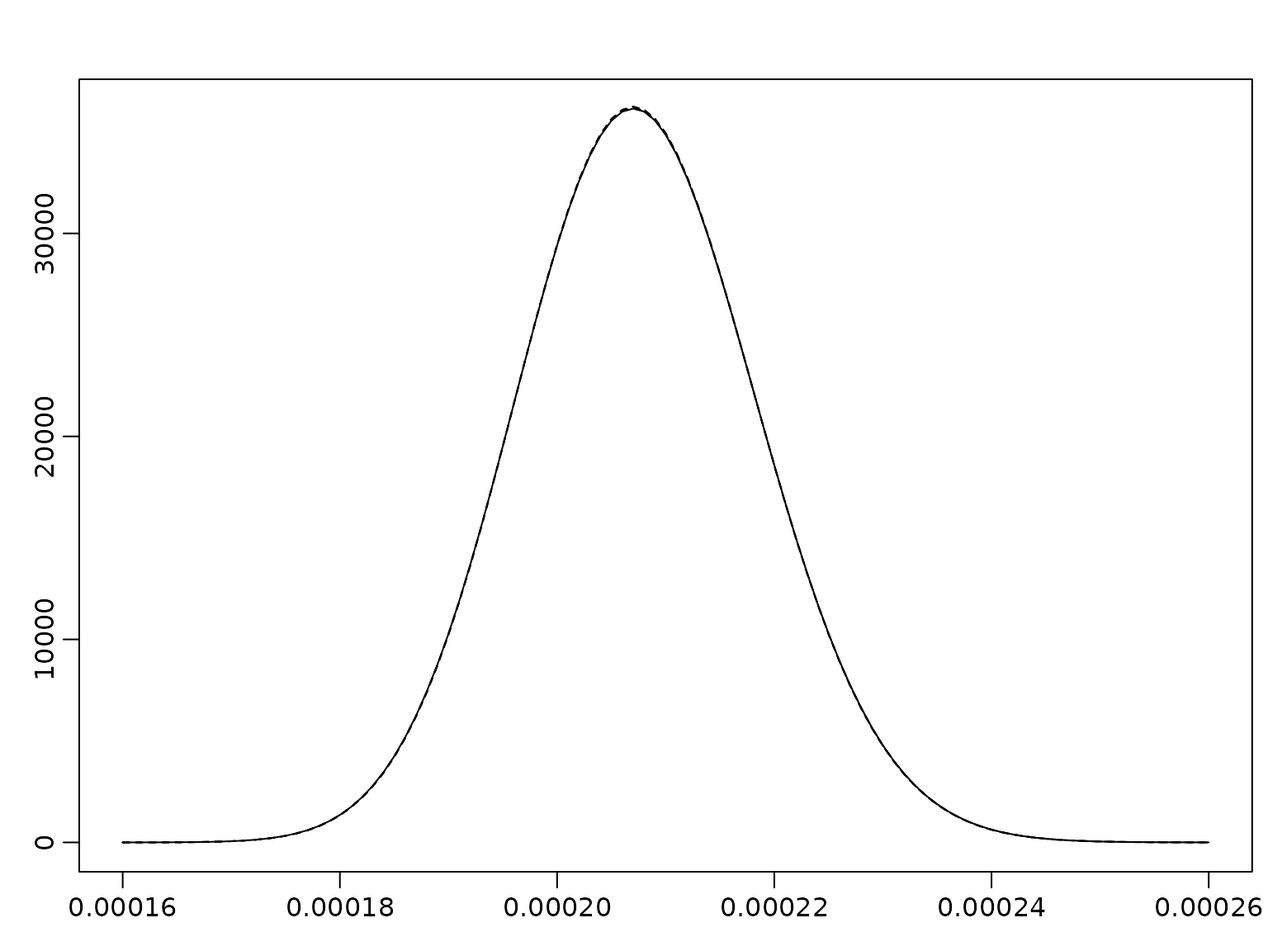
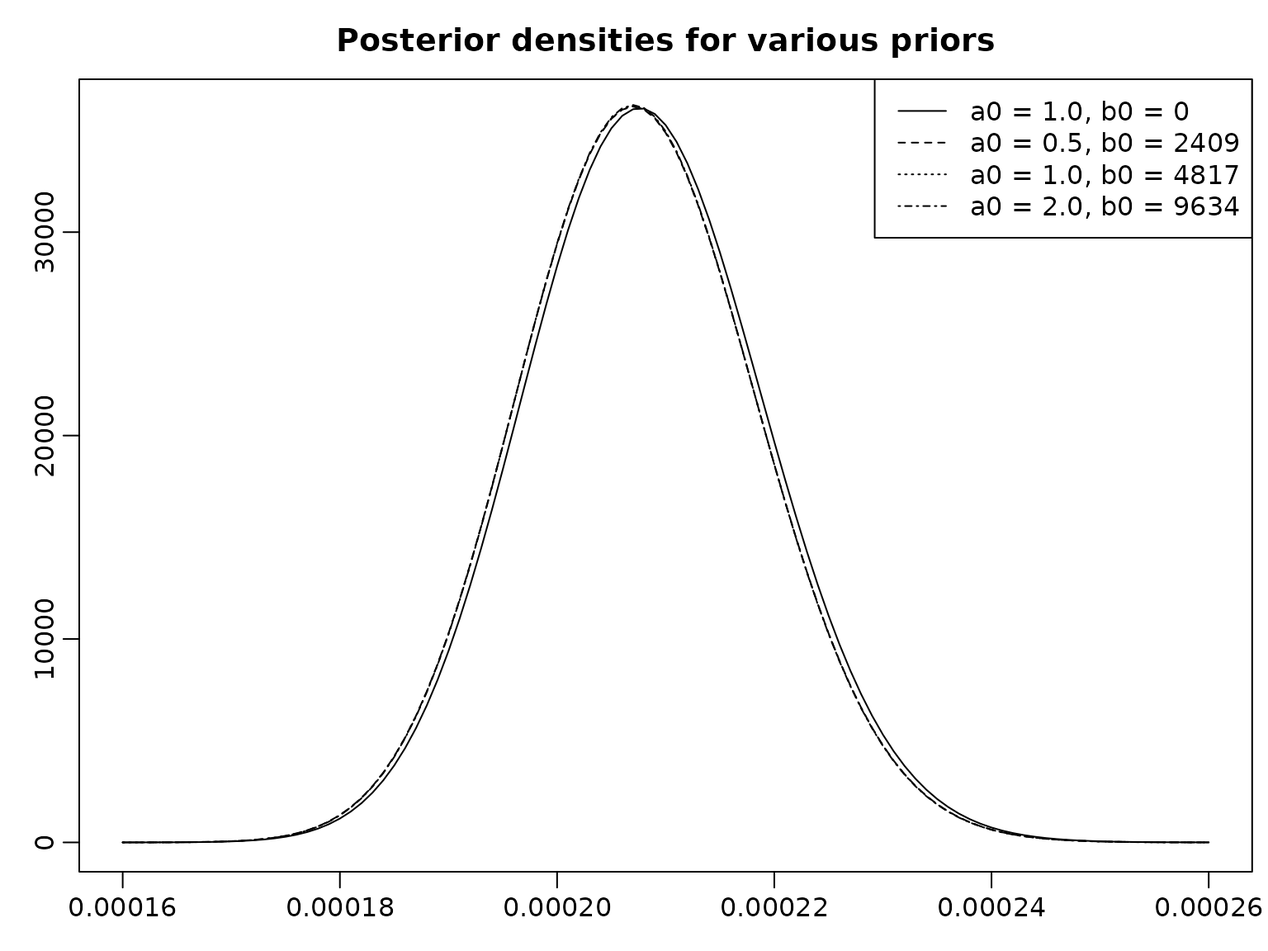
Deploying to gh-pages from @ gregorkastner/BayesianLearningCode@3f100c3d77cc80cc66e94f6a209069a297e1494a 🚀

diff --git a/articles/Chapter02.html b/articles/Chapter02.html
@@ -68,16 +68,19 @@
 <h2 id="section-2-1">Section 2.1<a class="anchor" aria-label="anchor" href="#section-2-1"></a>
 </h2>
 <div class="section level3">
-<h3 id="example-2-2-road-safety-data">Example 2.2: Road safety data<a class="anchor" aria-label="anchor" href="#example-2-2-road-safety-data"></a>
+<h3 id="example-2-2-road-safety-data">Example 2.2: Road Safety Data<a class="anchor" aria-label="anchor" href="#example-2-2-road-safety-data"></a>
 </h3>
 <p>Let’s first take a look at the data.</p>
 <div class="sourceCode" id="cb1"><pre class="downlit sourceCode r">
 <code class="sourceCode R"><span><span class="kw"><a href="https://rdrr.io/r/base/library.html" class="external-link">library</a></span><span class="op">(</span><span class="va"><a href="https://gregorkastner.github.io/BayesianLearningCode/">BayesianLearningCode</a></span><span class="op">)</span></span>
-<span><span class="fu"><a href="https://rdrr.io/r/utils/str.html" class="external-link">str</a></span><span class="op">(</span><span class="va">accidents</span><span class="op">)</span></span>
-<span><span class="co">#&gt;  Time-Series [1:192, 1:4] from 1987 to 2003: 1 1 2 1 4 5 2 2 1 5 ...</span></span>
-<span><span class="co">#&gt;  - attr(*, "dimnames")=List of 2</span></span>
-<span><span class="co">#&gt;   ..$ : NULL</span></span>
-<span><span class="co">#&gt;   ..$ : chr [1:4] "children" "seniors" "children_exposure" "seniors_exposure"</span></span>
+<span><span class="fu"><a href="https://rdrr.io/r/base/summary.html" class="external-link">summary</a></span><span class="op">(</span><span class="va">accidents</span><span class="op">)</span></span>
+<span><span class="co">#&gt;     children        seniors      children_exposure seniors_exposure</span></span>
+<span><span class="co">#&gt;  Min.   :0.000   Min.   : 0.00   Min.   :8171      Min.   :42854   </span></span>
+<span><span class="co">#&gt;  1st Qu.:1.000   1st Qu.: 3.00   1st Qu.:8678      1st Qu.:43574   </span></span>
+<span><span class="co">#&gt;  Median :2.000   Median : 5.00   Median :8900      Median :44097   </span></span>
+<span><span class="co">#&gt;  Mean   :1.839   Mean   : 5.25   Mean   :8856      Mean   :43890   </span></span>
+<span><span class="co">#&gt;  3rd Qu.:3.000   3rd Qu.: 7.00   3rd Qu.:9103      3rd Qu.:44264   </span></span>
+<span><span class="co">#&gt;  Max.   :5.000   Max.   :15.00   Max.   :9204      Max.   :44671</span></span>
 <span><span class="fu"><a href="https://rdrr.io/r/graphics/plot.default.html" class="external-link">plot</a></span><span class="op">(</span><span class="va">accidents</span><span class="op">[</span>,<span class="fu"><a href="https://rdrr.io/r/base/c.html" class="external-link">c</a></span><span class="op">(</span><span class="fl">1</span>,<span class="fl">3</span><span class="op">)</span><span class="op">]</span>, main <span class="op">=</span> <span class="st">"Road accidents involving pedestrian children"</span><span class="op">)</span></span></code></pre></div>
 <p><img src="Chapter02_files/figure-html/unnamed-chunk-3-1.png" width="768"></p>
 <div class="sourceCode" id="cb2"><pre class="downlit sourceCode r">
@@ -98,7 +101,6 @@ along with the 0.05-, the 0.5-, and the 0.95-quantile.</p>
 <span><span class="va">bN</span> <span class="op">&lt;-</span> <span class="fu"><a href="https://rdrr.io/r/base/length.html" class="external-link">length</a></span><span class="op">(</span><span class="va">y</span><span class="op">)</span></span>
 <span></span>
 <span><span class="va">x</span> <span class="op">&lt;-</span> <span class="fu"><a href="https://rdrr.io/r/base/seq.html" class="external-link">seq</a></span><span class="op">(</span><span class="fl">4.5</span>, <span class="fl">6</span>, by <span class="op">=</span> <span class="fl">0.01</span><span class="op">)</span></span>
-<span><span class="fu"><a href="https://rdrr.io/r/graphics/par.html" class="external-link">par</a></span><span class="op">(</span>mfrow <span class="op">=</span> <span class="fu"><a href="https://rdrr.io/r/base/c.html" class="external-link">c</a></span><span class="op">(</span><span class="fl">1</span>, <span class="fl">2</span><span class="op">)</span><span class="op">)</span></span>
 <span><span class="fu"><a href="https://rdrr.io/r/graphics/plot.default.html" class="external-link">plot</a></span><span class="op">(</span><span class="va">x</span>, <span class="fu"><a href="https://rdrr.io/r/stats/GammaDist.html" class="external-link">dgamma</a></span><span class="op">(</span><span class="va">x</span>, <span class="va">aN</span>, <span class="va">bN</span><span class="op">)</span>, type <span class="op">=</span> <span class="st">"l"</span>, xlab <span class="op">=</span> <span class="st">""</span>, ylab <span class="op">=</span> <span class="st">""</span>,</span>
 <span>     main <span class="op">=</span> <span class="st">"Posterior density and quantiles"</span><span class="op">)</span></span>
 <span><span class="fu"><a href="https://rdrr.io/r/graphics/abline.html" class="external-link">abline</a></span><span class="op">(</span>h <span class="op">=</span> <span class="fl">0</span>, lty <span class="op">=</span> <span class="fl">3</span><span class="op">)</span></span>
@@ -118,15 +120,13 @@ along with the 0.05-, the 0.5-, and the 0.95-quantile.</p>
 <span>  <span class="fu"><a href="https://rdrr.io/r/graphics/lines.html" class="external-link">lines</a></span><span class="op">(</span><span class="fu"><a href="https://rdrr.io/r/base/c.html" class="external-link">c</a></span><span class="op">(</span><span class="va">qs</span><span class="op">[</span><span class="va">i</span><span class="op">]</span>, <span class="va">qs</span><span class="op">[</span><span class="va">i</span><span class="op">]</span><span class="op">)</span>, <span class="fu"><a href="https://rdrr.io/r/base/c.html" class="external-link">c</a></span><span class="op">(</span><span class="va">probs</span><span class="op">[</span><span class="va">i</span><span class="op">]</span>, <span class="op">-</span><span class="fl">1</span><span class="op">)</span>, lty <span class="op">=</span> <span class="fl">2</span><span class="op">)</span></span>
 <span><span class="op">}</span></span></code></pre></div>
 <p><img src="Chapter02_files/figure-html/unnamed-chunk-4-1.png" width="768"></p>
-<div class="sourceCode" id="cb4"><pre class="downlit sourceCode r">
-<code class="sourceCode R"><span><span class="fu"><a href="https://rdrr.io/r/graphics/par.html" class="external-link">par</a></span><span class="op">(</span>mfrow <span class="op">=</span> <span class="fu"><a href="https://rdrr.io/r/base/c.html" class="external-link">c</a></span><span class="op">(</span><span class="fl">1</span>, <span class="fl">1</span><span class="op">)</span><span class="op">)</span></span></code></pre></div>
 </div>
 </div>
 <div class="section level2">
 <h2 id="section-2-2">Section 2.2<a class="anchor" aria-label="anchor" href="#section-2-2"></a>
 </h2>
 <div class="section level3">
-<h3 id="example-2-8-road-safety-data-contd">Example 2.8: Road safety data (cont’d)<a class="anchor" aria-label="anchor" href="#example-2-8-road-safety-data-contd"></a>
+<h3 id="example-2-8-including-exposures-for-the-road-safety-data">Example 2.8: Including Exposures for the Road Safety Data<a class="anchor" aria-label="anchor" href="#example-2-8-including-exposures-for-the-road-safety-data"></a>
 </h3>
 <p>We now include the exposure at time
 <math display="inline" xmlns="http://www.w3.org/1998/Math/MathML"><semantics><mi>t</mi><annotation encoding="application/x-tex">t</annotation></semantics></math>,
@@ -135,40 +135,117 @@ to estimate the monthly risk
 <math display="inline" xmlns="http://www.w3.org/1998/Math/MathML"><semantics><mi>λ</mi><annotation encoding="application/x-tex">\lambda</annotation></semantics></math>
 of children to be killed or seriously injured via the following
 likelihood assumption:</p>
-<p><math display="block" xmlns="http://www.w3.org/1998/Math/MathML"><semantics><mrow><msub><mi>y</mi><mi>t</mi></msub><mo>∼</mo><mi>𝒫</mi><mrow><mo stretchy="true" form="prefix">(</mo><mi>λ</mi><msub><mi>e</mi><mi>t</mi></msub><mo stretchy="true" form="postfix">)</mo></mrow><mo>,</mo><mspace width="1.0em"></mspace><mi>t</mi><mo>=</mo><mn>1</mn><mo>,</mo><mi>…</mi><mo>,</mo><mi>T</mi><mi>.</mi></mrow><annotation encoding="application/x-tex">
-y_t \sim \mathcal P(\lambda e_t), \quad t = 1,\dots,T.
+<p><math display="block" xmlns="http://www.w3.org/1998/Math/MathML"><semantics><mrow><msub><mi>y</mi><mi>i</mi></msub><mo>∼</mo><mi>𝒫</mi><mrow><mo stretchy="true" form="prefix">(</mo><mi>λ</mi><msub><mi>e</mi><mi>i</mi></msub><mo stretchy="true" form="postfix">)</mo></mrow><mo>,</mo><mspace width="1.0em"></mspace><mi>i</mi><mo>=</mo><mn>1</mn><mo>,</mo><mi>…</mi><mo>,</mo><mi>N</mi><mi>.</mi></mrow><annotation encoding="application/x-tex">
+y_i \sim \mathcal P(\lambda e_i), \quad i = 1,\dots,N.
 </annotation></semantics></math> Note that we still assume that the data
 is independently (but not identically!) distributed. We proceed by
 computing and visualizing the posterior for different prior
 hyperparameter choices.</p>
-<div class="sourceCode" id="cb5"><pre class="downlit sourceCode r">
+<div class="sourceCode" id="cb4"><pre class="downlit sourceCode r">
 <code class="sourceCode R"><span><span class="va">y</span> <span class="op">&lt;-</span> <span class="va">accidents</span><span class="op">[</span>, <span class="st">"children"</span><span class="op">]</span></span>
 <span><span class="va">exp</span> <span class="op">&lt;-</span> <span class="va">accidents</span><span class="op">[</span>, <span class="st">"children_exposure"</span><span class="op">]</span></span>
 <span><span class="va">lambdahat</span> <span class="op">&lt;-</span> <span class="fu"><a href="https://rdrr.io/r/base/mean.html" class="external-link">mean</a></span><span class="op">(</span><span class="va">y</span><span class="op">)</span><span class="op">/</span><span class="fu"><a href="https://rdrr.io/r/base/mean.html" class="external-link">mean</a></span><span class="op">(</span><span class="va">exp</span><span class="op">)</span></span>
-<span><span class="va">a0</span> <span class="op">&lt;-</span> <span class="fu"><a href="https://rdrr.io/r/base/c.html" class="external-link">c</a></span><span class="op">(</span><span class="fl">0</span>, <span class="fl">0.5</span>, <span class="fl">1</span>, <span class="fl">2</span><span class="op">)</span></span>
-<span><span class="va">b0</span> <span class="op">&lt;-</span> <span class="va">a0</span><span class="op">/</span><span class="va">lambdahat</span></span>
+<span><span class="va">a0</span> <span class="op">&lt;-</span> <span class="fu"><a href="https://rdrr.io/r/base/c.html" class="external-link">c</a></span><span class="op">(</span><span class="fl">1</span>, <span class="fl">0.5</span>, <span class="fl">1</span>, <span class="fl">2</span><span class="op">)</span></span>
+<span><span class="va">b0</span> <span class="op">&lt;-</span> <span class="fu"><a href="https://rdrr.io/r/base/c.html" class="external-link">c</a></span><span class="op">(</span><span class="fl">0</span>, <span class="va">a0</span><span class="op">[</span><span class="op">-</span><span class="fl">1</span><span class="op">]</span><span class="op">/</span><span class="va">lambdahat</span><span class="op">)</span></span>
 <span><span class="va">aN</span> <span class="op">&lt;-</span> <span class="va">a0</span> <span class="op">+</span> <span class="fu"><a href="https://rdrr.io/r/base/sum.html" class="external-link">sum</a></span><span class="op">(</span><span class="va">y</span><span class="op">)</span></span>
 <span><span class="va">bN</span> <span class="op">&lt;-</span> <span class="va">b0</span> <span class="op">+</span> <span class="fu"><a href="https://rdrr.io/r/base/sum.html" class="external-link">sum</a></span><span class="op">(</span><span class="va">exp</span><span class="op">)</span></span>
 <span></span>
 <span><span class="va">x</span> <span class="op">&lt;-</span> <span class="fu"><a href="https://rdrr.io/r/base/seq.html" class="external-link">seq</a></span><span class="op">(</span><span class="fl">0.00016</span>, <span class="fl">0.00026</span>, by <span class="op">=</span> <span class="fl">.000001</span><span class="op">)</span></span>
-<span><span class="fu"><a href="https://rdrr.io/r/graphics/plot.default.html" class="external-link">plot</a></span><span class="op">(</span><span class="va">x</span>, <span class="fu"><a href="https://rdrr.io/r/stats/GammaDist.html" class="external-link">dgamma</a></span><span class="op">(</span><span class="va">x</span>, <span class="va">aN</span><span class="op">[</span><span class="fl">1</span><span class="op">]</span>, <span class="va">bN</span><span class="op">[</span><span class="fl">1</span><span class="op">]</span><span class="op">)</span>, type <span class="op">=</span> <span class="st">"l"</span>, xlab <span class="op">=</span> <span class="st">""</span>, ylab <span class="op">=</span> <span class="st">""</span><span class="op">)</span></span>
-<span><span class="kw">for</span> <span class="op">(</span><span class="va">i</span> <span class="kw">in</span> <span class="fl">2</span><span class="op">:</span><span class="fu"><a href="https://rdrr.io/r/base/length.html" class="external-link">length</a></span><span class="op">(</span><span class="va">aN</span><span class="op">)</span><span class="op">)</span> <span class="fu"><a href="https://rdrr.io/r/graphics/lines.html" class="external-link">lines</a></span><span class="op">(</span><span class="va">x</span>, <span class="fu"><a href="https://rdrr.io/r/stats/GammaDist.html" class="external-link">dgamma</a></span><span class="op">(</span><span class="va">x</span>, <span class="va">aN</span><span class="op">[</span><span class="va">i</span><span class="op">]</span>, <span class="va">bN</span><span class="op">[</span><span class="va">i</span><span class="op">]</span><span class="op">)</span>, lty <span class="op">=</span> <span class="fl">2</span><span class="op">)</span></span></code></pre></div>
-<p><img src="Chapter02_files/figure-html/unnamed-chunk-5-1.png" width="768">
-TO DISCUSS: FIGURE 2.7 LOOKS SLIGHTLY DIFFERENT</p>
-<p>For all our chosen priors, we get the same posterior mean, but we see
-slightly different credible intervals.</p>
-<div class="sourceCode" id="cb6"><pre class="downlit sourceCode r">
+<span><span class="fu"><a href="https://rdrr.io/r/graphics/plot.default.html" class="external-link">plot</a></span><span class="op">(</span><span class="va">x</span>, <span class="fu"><a href="https://rdrr.io/r/stats/GammaDist.html" class="external-link">dgamma</a></span><span class="op">(</span><span class="va">x</span>, <span class="va">aN</span><span class="op">[</span><span class="fl">1</span><span class="op">]</span>, <span class="va">bN</span><span class="op">[</span><span class="fl">1</span><span class="op">]</span><span class="op">)</span>, type <span class="op">=</span> <span class="st">"l"</span>, xlab <span class="op">=</span> <span class="st">""</span>, ylab <span class="op">=</span> <span class="st">""</span>,</span>
+<span>     main <span class="op">=</span> <span class="st">"Posterior densities for various priors"</span><span class="op">)</span></span>
+<span><span class="kw">for</span> <span class="op">(</span><span class="va">i</span> <span class="kw">in</span> <span class="fl">2</span><span class="op">:</span><span class="fu"><a href="https://rdrr.io/r/base/length.html" class="external-link">length</a></span><span class="op">(</span><span class="va">aN</span><span class="op">)</span><span class="op">)</span> <span class="fu"><a href="https://rdrr.io/r/graphics/lines.html" class="external-link">lines</a></span><span class="op">(</span><span class="va">x</span>, <span class="fu"><a href="https://rdrr.io/r/stats/GammaDist.html" class="external-link">dgamma</a></span><span class="op">(</span><span class="va">x</span>, <span class="va">aN</span><span class="op">[</span><span class="va">i</span><span class="op">]</span>, <span class="va">bN</span><span class="op">[</span><span class="va">i</span><span class="op">]</span><span class="op">)</span>, lty <span class="op">=</span> <span class="va">i</span><span class="op">)</span></span>
+<span></span>
+<span><span class="va">hyperparams</span> <span class="op">&lt;-</span> <span class="fu"><a href="https://rdrr.io/r/base/paste.html" class="external-link">paste0</a></span><span class="op">(</span><span class="st">"a0 = "</span>, <span class="fu"><a href="https://rdrr.io/r/base/formatc.html" class="external-link">formatC</a></span><span class="op">(</span><span class="va">a0</span>, <span class="fl">1</span>, format <span class="op">=</span> <span class="st">"f"</span><span class="op">)</span>,</span>
+<span>                      <span class="st">", "</span>, <span class="st">"b0 = "</span>, <span class="fu"><a href="https://rdrr.io/r/base/Round.html" class="external-link">round</a></span><span class="op">(</span><span class="va">b0</span><span class="op">)</span><span class="op">)</span></span>
+<span></span>
+<span><span class="fu"><a href="https://rdrr.io/r/graphics/legend.html" class="external-link">legend</a></span><span class="op">(</span><span class="st">"topright"</span>, <span class="va">hyperparams</span>, lty <span class="op">=</span> <span class="fl">1</span><span class="op">:</span><span class="fl">4</span><span class="op">)</span></span></code></pre></div>
+<p><img src="Chapter02_files/figure-html/unnamed-chunk-5-1.png" width="768"></p>
+<p>For all our data-driven priors, we get the same posterior mean. The
+credible intervals differ slightly.</p>
+<div class="sourceCode" id="cb5"><pre class="downlit sourceCode r">
 <code class="sourceCode R"><span><span class="va">postmean</span> <span class="op">&lt;-</span> <span class="va">aN</span><span class="op">/</span><span class="va">bN</span></span>
 <span><span class="va">leftpostquant</span> <span class="op">&lt;-</span> <span class="fu"><a href="https://rdrr.io/r/stats/GammaDist.html" class="external-link">qgamma</a></span><span class="op">(</span><span class="fl">.025</span>, <span class="va">aN</span>, <span class="va">bN</span><span class="op">)</span></span>
 <span><span class="va">rightpostquant</span> <span class="op">&lt;-</span> <span class="fu"><a href="https://rdrr.io/r/stats/GammaDist.html" class="external-link">qgamma</a></span><span class="op">(</span><span class="fl">.975</span>, <span class="va">aN</span>, <span class="va">bN</span><span class="op">)</span></span>
 <span><span class="va">res</span> <span class="op">&lt;-</span> <span class="fu"><a href="https://rdrr.io/r/base/cbind.html" class="external-link">cbind</a></span><span class="op">(</span><span class="va">leftpostquant</span>, <span class="va">postmean</span>, <span class="va">rightpostquant</span><span class="op">)</span></span>
-<span><span class="fu"><a href="https://rdrr.io/r/base/colnames.html" class="external-link">rownames</a></span><span class="op">(</span><span class="va">res</span><span class="op">)</span> <span class="op">&lt;-</span> <span class="fu"><a href="https://rdrr.io/r/base/paste.html" class="external-link">paste0</a></span><span class="op">(</span><span class="st">"a0 = "</span>, <span class="va">a0</span>, <span class="st">", "</span>, <span class="st">"b0 = "</span>, <span class="fu"><a href="https://rdrr.io/r/base/Round.html" class="external-link">round</a></span><span class="op">(</span><span class="va">b0</span><span class="op">)</span><span class="op">)</span></span>
+<span><span class="fu"><a href="https://rdrr.io/r/base/colnames.html" class="external-link">rownames</a></span><span class="op">(</span><span class="va">res</span><span class="op">)</span> <span class="op">&lt;-</span> <span class="va">hyperparams</span></span>
 <span><span class="va">res</span></span>
-<span><span class="co">#&gt;                     leftpostquant    postmean rightpostquant</span></span>
-<span><span class="co">#&gt; a0 = 0, b0 = 0       0.0001865031 0.000207597   0.0002298047</span></span>
-<span><span class="co">#&gt; a0 = 0.5, b0 = 2409  0.0001865176 0.000207597   0.0002297886</span></span>
-<span><span class="co">#&gt; a0 = 1, b0 = 4817    0.0001865321 0.000207597   0.0002297725</span></span>
-<span><span class="co">#&gt; a0 = 2, b0 = 9634    0.0001865610 0.000207597   0.0002297405</span></span></code></pre></div>
+<span><span class="co">#&gt;                     leftpostquant     postmean rightpostquant</span></span>
+<span><span class="co">#&gt; a0 = 1.0, b0 = 0     0.0001870605 0.0002081851   0.0002304234</span></span>
+<span><span class="co">#&gt; a0 = 0.5, b0 = 2409  0.0001865176 0.0002075970   0.0002297886</span></span>
+<span><span class="co">#&gt; a0 = 1.0, b0 = 4817  0.0001865321 0.0002075970   0.0002297725</span></span>
+<span><span class="co">#&gt; a0 = 2.0, b0 = 9634  0.0001865610 0.0002075970   0.0002297405</span></span></code></pre></div>
+</div>
+<div class="section level3">
+<h3 id="example-2-9-including-a-structural-break-for-the-road-safety-data">Example 2.9: Including a structural break for the Road Safety
+Data<a class="anchor" aria-label="anchor" href="#example-2-9-including-a-structural-break-for-the-road-safety-data"></a>
+</h3>
+<p>We now continue with a Poisson model with a (known) structural break
+at
+<math display="inline" xmlns="http://www.w3.org/1998/Math/MathML"><semantics><mrow><mi>i</mi><mo>=</mo><mn>94</mn></mrow><annotation encoding="application/x-tex">i = 94</annotation></semantics></math>
+(that is, in October 1994). Because the data is stored as a time series
+(ts) object, we can use the window function to conveniently extract the
+two time frames.</p>
+<div class="sourceCode" id="cb6"><pre class="downlit sourceCode r">
+<code class="sourceCode R"><span><span class="va">accidents1</span> <span class="op">&lt;-</span> <span class="fu"><a href="https://rdrr.io/r/stats/window.html" class="external-link">window</a></span><span class="op">(</span><span class="va">accidents</span>, end <span class="op">=</span> <span class="fu"><a href="https://rdrr.io/r/base/c.html" class="external-link">c</a></span><span class="op">(</span><span class="fl">1994</span>, <span class="fl">9</span><span class="op">)</span><span class="op">)</span></span>
+<span><span class="va">accidents2</span> <span class="op">&lt;-</span> <span class="fu"><a href="https://rdrr.io/r/stats/window.html" class="external-link">window</a></span><span class="op">(</span><span class="va">accidents</span>, start <span class="op">=</span> <span class="fu"><a href="https://rdrr.io/r/base/c.html" class="external-link">c</a></span><span class="op">(</span><span class="fl">1994</span>, <span class="fl">10</span><span class="op">)</span><span class="op">)</span></span>
+<span></span>
+<span><span class="va">a01</span> <span class="op">&lt;-</span> <span class="va">a02</span> <span class="op">&lt;-</span> <span class="fl">1</span></span>
+<span><span class="va">b01</span> <span class="op">&lt;-</span> <span class="va">b02</span> <span class="op">&lt;-</span> <span class="fl">0</span></span>
+<span></span>
+<span><span class="va">aN1</span> <span class="op">&lt;-</span> <span class="va">a01</span> <span class="op">+</span> <span class="fu"><a href="https://rdrr.io/r/base/sum.html" class="external-link">sum</a></span><span class="op">(</span><span class="va">accidents1</span><span class="op">[</span>, <span class="st">"children"</span><span class="op">]</span><span class="op">)</span></span>
+<span><span class="va">aN2</span> <span class="op">&lt;-</span> <span class="va">a02</span> <span class="op">+</span> <span class="fu"><a href="https://rdrr.io/r/base/sum.html" class="external-link">sum</a></span><span class="op">(</span><span class="va">accidents2</span><span class="op">[</span>, <span class="st">"children"</span><span class="op">]</span><span class="op">)</span></span>
+<span><span class="va">bN1</span> <span class="op">&lt;-</span> <span class="va">b01</span> <span class="op">+</span> <span class="fu"><a href="https://rdrr.io/r/base/length.html" class="external-link">length</a></span><span class="op">(</span><span class="va">accidents1</span><span class="op">[</span>, <span class="st">"children"</span><span class="op">]</span><span class="op">)</span></span>
+<span><span class="va">bN2</span> <span class="op">&lt;-</span> <span class="va">b02</span> <span class="op">+</span> <span class="fu"><a href="https://rdrr.io/r/base/length.html" class="external-link">length</a></span><span class="op">(</span><span class="va">accidents2</span><span class="op">[</span>, <span class="st">"children"</span><span class="op">]</span><span class="op">)</span></span>
+<span></span>
+<span><span class="va">post</span> <span class="op">&lt;-</span> <span class="kw">function</span><span class="op">(</span><span class="va">x1</span>, <span class="va">x2</span>, <span class="va">aN1</span>, <span class="va">aN2</span>, <span class="va">bN1</span>, <span class="va">bN2</span><span class="op">)</span> <span class="op">{</span></span>
+<span>  <span class="fu"><a href="https://rdrr.io/r/stats/GammaDist.html" class="external-link">dgamma</a></span><span class="op">(</span><span class="va">x1</span>, <span class="va">aN1</span>, <span class="va">bN1</span><span class="op">)</span> <span class="op">*</span> <span class="fu"><a href="https://rdrr.io/r/stats/GammaDist.html" class="external-link">dgamma</a></span><span class="op">(</span><span class="va">x2</span>, <span class="va">aN2</span>, <span class="va">bN2</span><span class="op">)</span></span>
+<span><span class="op">}</span></span>
+<span></span>
+<span><span class="va">mu1</span> <span class="op">&lt;-</span> <span class="fu"><a href="https://rdrr.io/r/base/seq.html" class="external-link">seq</a></span><span class="op">(</span><span class="fl">1</span>, <span class="fl">3</span>, by <span class="op">=</span> <span class="fl">0.03</span><span class="op">)</span></span>
+<span><span class="va">mu2</span> <span class="op">&lt;-</span> <span class="va">mu1</span></span>
+<span><span class="va">z</span> <span class="op">&lt;-</span> <span class="fu"><a href="https://rdrr.io/r/base/outer.html" class="external-link">outer</a></span><span class="op">(</span><span class="va">mu1</span>, <span class="va">mu2</span>, <span class="va">post</span>, aN1 <span class="op">=</span> <span class="va">aN1</span>, aN2 <span class="op">=</span> <span class="va">aN2</span>, bN1 <span class="op">=</span> <span class="va">bN1</span>, bN2 <span class="op">=</span> <span class="va">bN2</span><span class="op">)</span></span>
+<span></span>
+<span><span class="va">nrz</span> <span class="op">&lt;-</span> <span class="fu"><a href="https://rdrr.io/r/base/nrow.html" class="external-link">nrow</a></span><span class="op">(</span><span class="va">z</span><span class="op">)</span></span>
+<span><span class="va">ncz</span> <span class="op">&lt;-</span> <span class="fu"><a href="https://rdrr.io/r/base/nrow.html" class="external-link">ncol</a></span><span class="op">(</span><span class="va">z</span><span class="op">)</span></span>
+<span></span>
+<span><span class="co"># Generate the desired number of colors from this palette</span></span>
+<span><span class="va">nbcol</span> <span class="op">&lt;-</span> <span class="fl">10</span></span>
+<span><span class="va">color</span> <span class="op">&lt;-</span> <span class="fu"><a href="https://rdrr.io/r/grDevices/palettes.html" class="external-link">hcl.colors</a></span><span class="op">(</span><span class="fl">10</span>, <span class="st">"YlOrRd"</span><span class="op">)</span></span>
+<span></span>
+<span><span class="co"># Compute the z-value at the facet centres</span></span>
+<span></span>
+<span><span class="va">zfacet</span> <span class="op">&lt;-</span> <span class="va">z</span><span class="op">[</span><span class="op">-</span><span class="fl">1</span>, <span class="op">-</span><span class="fl">1</span><span class="op">]</span> <span class="op">+</span> <span class="va">z</span><span class="op">[</span><span class="op">-</span><span class="fl">1</span>, <span class="op">-</span><span class="va">ncz</span><span class="op">]</span> <span class="op">+</span> <span class="va">z</span><span class="op">[</span><span class="op">-</span><span class="va">nrz</span>, <span class="op">-</span><span class="fl">1</span><span class="op">]</span> <span class="op">+</span> <span class="va">z</span><span class="op">[</span><span class="op">-</span><span class="va">nrz</span>, <span class="op">-</span><span class="va">ncz</span><span class="op">]</span></span>
+<span><span class="co"># Recode facet z-values into color indices</span></span>
+<span><span class="va">facetcol</span> <span class="op">&lt;-</span> <span class="fu"><a href="https://rdrr.io/r/base/cut.html" class="external-link">cut</a></span><span class="op">(</span><span class="va">zfacet</span>, <span class="va">nbcol</span><span class="op">)</span></span>
+<span></span>
+<span><span class="fu"><a href="https://rdrr.io/r/graphics/persp.html" class="external-link">persp</a></span><span class="op">(</span><span class="va">mu1</span>, <span class="va">mu2</span>, <span class="va">z</span>, col <span class="op">=</span> <span class="va">color</span><span class="op">[</span><span class="va">facetcol</span><span class="op">]</span>, ticktype <span class="op">=</span> <span class="st">"detailed"</span>, zlab <span class="op">=</span> <span class="st">""</span>,</span>
+<span>      xlab <span class="op">=</span> <span class="st">"mu1"</span>, ylab <span class="op">=</span> <span class="st">"mu2"</span>,</span>
+<span>      phi <span class="op">=</span> <span class="fl">20</span>, theta <span class="op">=</span> <span class="op">-</span><span class="fl">30</span><span class="op">)</span></span>
+<span></span>
+<span><span class="fu"><a href="https://rdrr.io/r/graphics/contour.html" class="external-link">contour</a></span><span class="op">(</span><span class="va">mu1</span>, <span class="va">mu2</span>, <span class="va">z</span>, col <span class="op">=</span> <span class="va">color</span>, xlab <span class="op">=</span> <span class="fu"><a href="https://rdrr.io/r/base/bquote.html" class="external-link">bquote</a></span><span class="op">(</span><span class="va">mu</span><span class="op">[</span><span class="fl">1</span><span class="op">]</span><span class="op">)</span>, ylab <span class="op">=</span> <span class="fu"><a href="https://rdrr.io/r/base/bquote.html" class="external-link">bquote</a></span><span class="op">(</span><span class="va">mu</span><span class="op">[</span><span class="fl">2</span><span class="op">]</span><span class="op">)</span><span class="op">)</span></span>
+<span><span class="fu"><a href="https://rdrr.io/r/graphics/abline.html" class="external-link">abline</a></span><span class="op">(</span><span class="fl">0</span>,<span class="fl">1</span><span class="op">)</span></span></code></pre></div>
+<p><img src="Chapter02_files/figure-html/unnamed-chunk-7-1.png" width="768"></p>
+</div>
+<div class="section level3">
+<h3 id="example-2-10-obtaining-posterior-draws-for-the-road-safety-data">Example 2.10: Obtaining posterior draws for the Road Safety
+Data<a class="anchor" aria-label="anchor" href="#example-2-10-obtaining-posterior-draws-for-the-road-safety-data"></a>
+</h3>
+<p>We now proceed with simple Monte Carlo approximation of (nonlinear)
+functionals of the posterior.</p>
+<div class="sourceCode" id="cb7"><pre class="downlit sourceCode r">
+<code class="sourceCode R"><span><span class="fu"><a href="https://rdrr.io/r/base/Random.html" class="external-link">set.seed</a></span><span class="op">(</span><span class="fl">1</span><span class="op">)</span></span>
+<span></span>
+<span><span class="va">nsamp</span> <span class="op">&lt;-</span> <span class="fl">2000</span></span>
+<span><span class="va">mu1</span> <span class="op">&lt;-</span> <span class="fu"><a href="https://rdrr.io/r/stats/GammaDist.html" class="external-link">rgamma</a></span><span class="op">(</span><span class="va">nsamp</span>, <span class="va">aN1</span>, <span class="va">bN1</span><span class="op">)</span></span>
+<span><span class="va">mu2</span> <span class="op">&lt;-</span> <span class="fu"><a href="https://rdrr.io/r/stats/GammaDist.html" class="external-link">rgamma</a></span><span class="op">(</span><span class="va">nsamp</span>, <span class="va">aN2</span>, <span class="va">bN2</span><span class="op">)</span></span>
+<span><span class="va">delta1</span> <span class="op">&lt;-</span> <span class="va">mu2</span> <span class="op">-</span> <span class="va">mu1</span></span>
+<span><span class="va">delta2</span> <span class="op">&lt;-</span> <span class="op">(</span><span class="va">mu2</span> <span class="op">-</span> <span class="va">mu1</span><span class="op">)</span> <span class="op">/</span> <span class="va">mu1</span></span>
+<span></span>
+<span><span class="fu"><a href="https://rdrr.io/r/stats/ts.plot.html" class="external-link">ts.plot</a></span><span class="op">(</span><span class="va">delta1</span>, main <span class="op">=</span> <span class="st">"Trace plot of delta1"</span><span class="op">)</span></span>
+<span><span class="fu"><a href="https://rdrr.io/r/stats/ts.plot.html" class="external-link">ts.plot</a></span><span class="op">(</span><span class="fl">100</span><span class="op">*</span><span class="va">delta2</span>, main <span class="op">=</span> <span class="st">"Trace plot of delta2"</span><span class="op">)</span></span>
+<span><span class="fu"><a href="https://rdrr.io/r/graphics/hist.html" class="external-link">hist</a></span><span class="op">(</span><span class="va">delta1</span>, breaks <span class="op">=</span> <span class="fl">20</span>, prob <span class="op">=</span> <span class="cn">TRUE</span>, xlab <span class="op">=</span> <span class="st">""</span>, ylab <span class="op">=</span> <span class="st">""</span><span class="op">)</span></span>
+<span><span class="fu"><a href="https://rdrr.io/r/graphics/hist.html" class="external-link">hist</a></span><span class="op">(</span><span class="fl">100</span><span class="op">*</span><span class="va">delta2</span>, breaks <span class="op">=</span> <span class="fl">20</span>, prob <span class="op">=</span> <span class="cn">TRUE</span>, xlab <span class="op">=</span> <span class="st">""</span>, ylab <span class="op">=</span> <span class="st">""</span><span class="op">)</span></span></code></pre></div>
+<p><img src="Chapter02_files/figure-html/unnamed-chunk-8-1.png" width="768"></p>
 </div>
 </div>
   </main><aside class="col-md-3"><nav id="toc" aria-label="Table of contents"><h2>On this page</h2>
